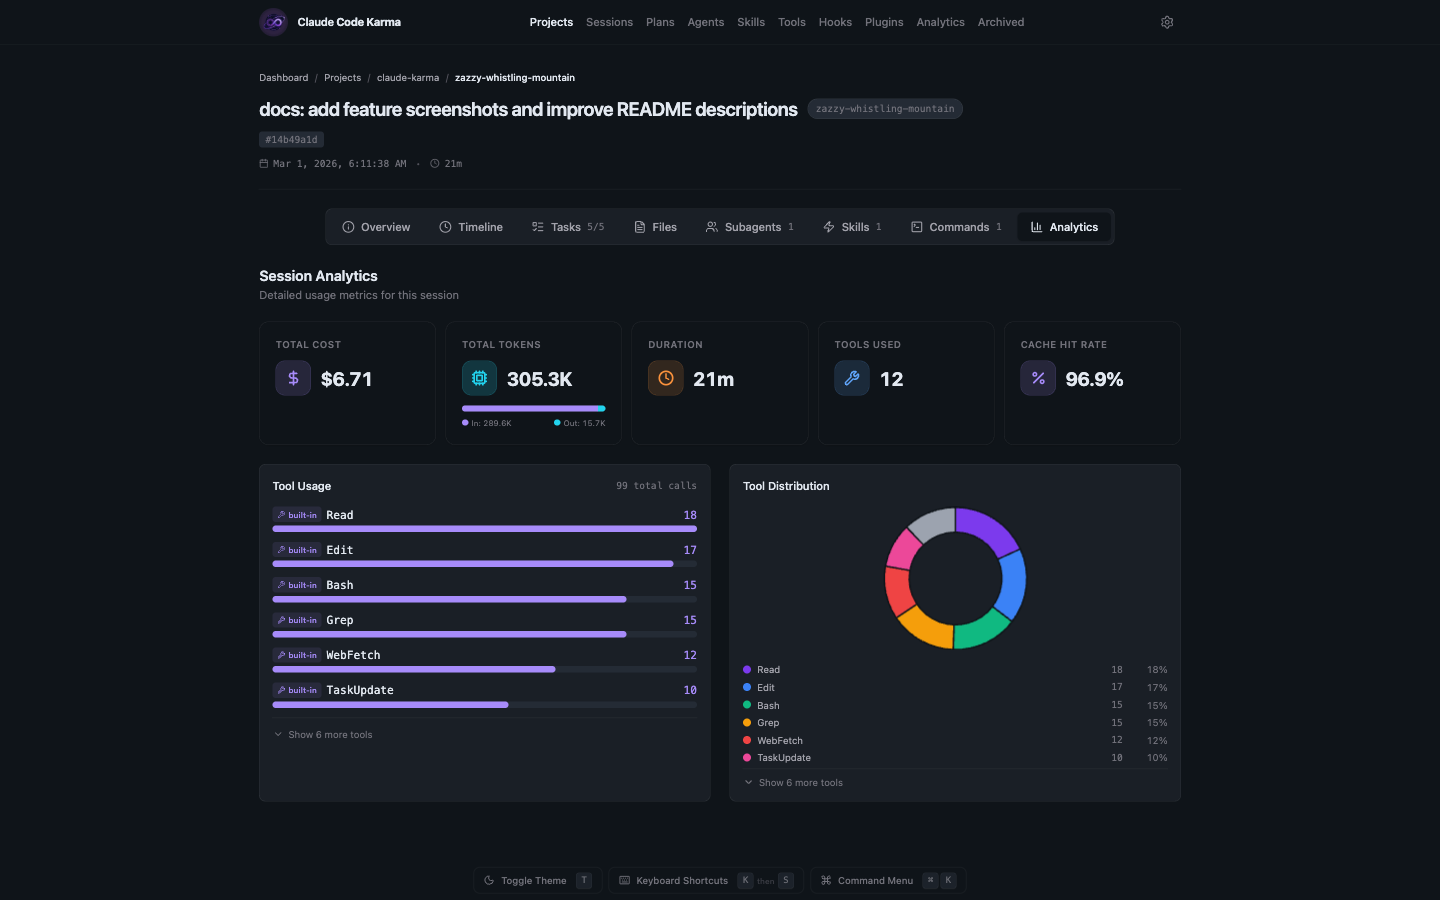
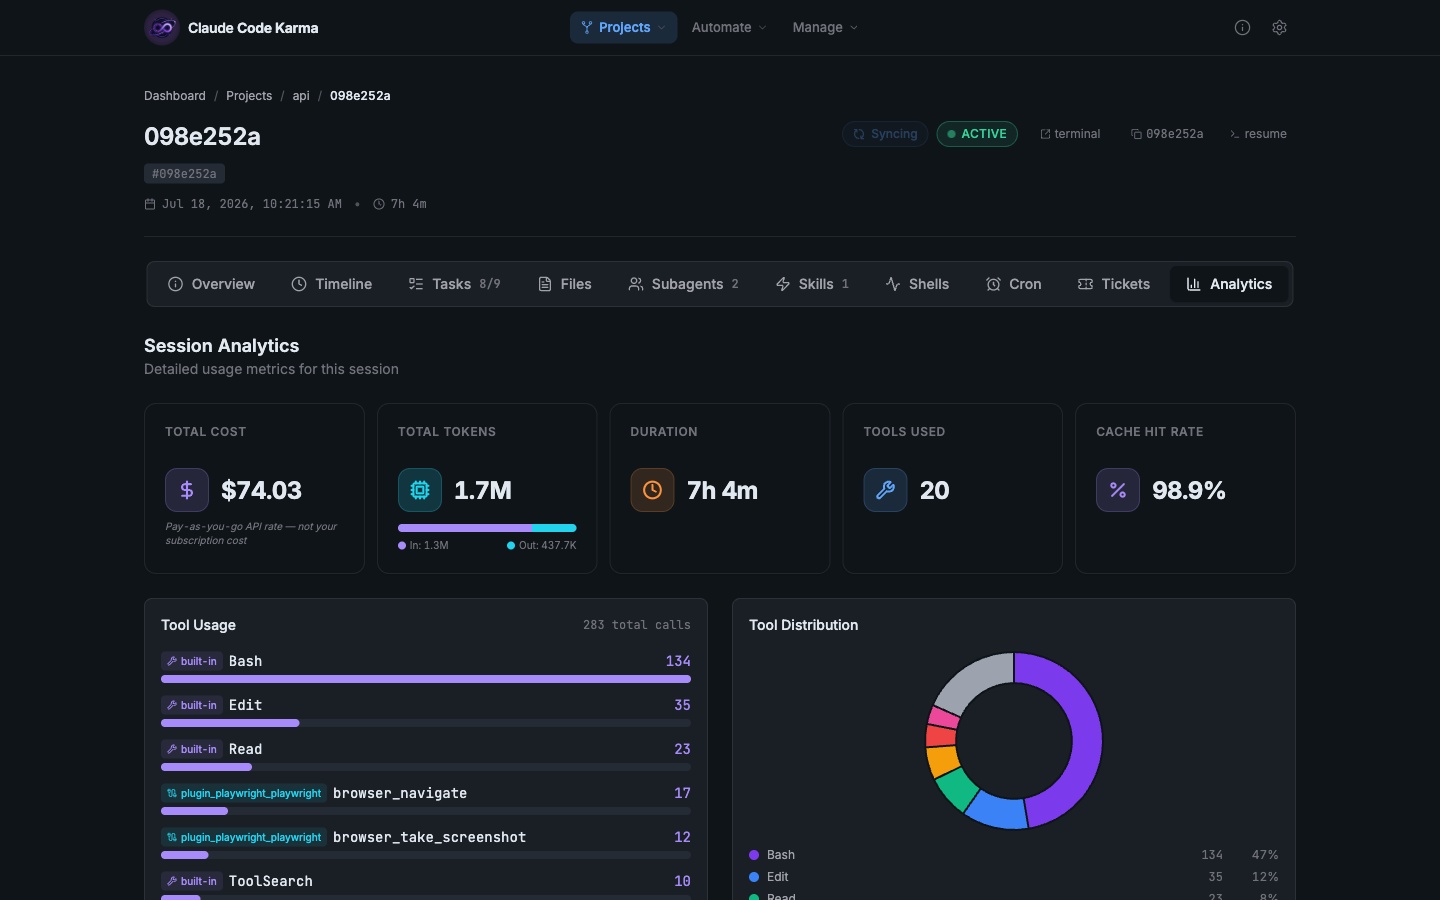
docs(screenshots): refresh all README screenshots in dark mode
Reshot every README-referenced page at 1440x900 in dark mode on the
current UI (post design-system, post open-terminal): home and lists now
show the teal terminal buttons, session shots use a real session with a
populated Tasks flow.

README follow-ups for pages that changed since March: the Tools browser
now lives at /mcp (section renamed Tools & MCP), and the session
Commands tab was replaced by Shells (session-commands.png removed,
session-shells.png added).

Claude-Session: https://claude.ai/code/session_017REfqdyZ2g8W9DRiNyJrU3

diff --git a/README.md b/README.md
@@ -84,10 +84,10 @@ Each session page has dedicated tabs that break down different aspects of what h
   <img src="docs/screenshots/session-skills.png" alt="Session Skills" width="100%" />
 </p>
 
-**Commands** — Slash commands used during the session, showing built-in and plugin commands with usage counts.
+**Shells** — Long-running background shells spawned during the session, with live status, the command each one ran, and runtime.
 
 <p align="center">
-  <img src="docs/screenshots/session-commands.png" alt="Session Commands" width="100%" />
+  <img src="docs/screenshots/session-shells.png" alt="Session Shells" width="100%" />
 </p>
 
 **Analytics** — Per-session cost breakdown, token usage, cache hit rates, tool distribution with a donut chart, and a ranked list of every tool used.
@@ -112,9 +112,9 @@ Track your token usage, costs, velocity trends, cache hit rates, and coding rhyt
   <img src="docs/screenshots/analytics.png" alt="Analytics Dashboard" width="100%" />
 </p>
 
-### Tools
+### Tools & MCP
 
-See every tool Claude Code uses — built-in ones like Read, Edit, and Bash, plus any MCP integrations you've added. Grouped by server with call counts and session coverage. Switch to the Usage Analytics tab for activity trends and top tools over time.
+See every tool Claude Code uses — built-in ones like Read, Edit, and Bash, plus any MCP integrations you've added (the **MCP** page in the nav). Grouped by server with call counts and session coverage. Switch to the Usage Analytics tab for activity trends and top tools over time.
 
 <p align="center">
   <img src="docs/screenshots/tools.png" alt="Tools Browser" width="100%" />
